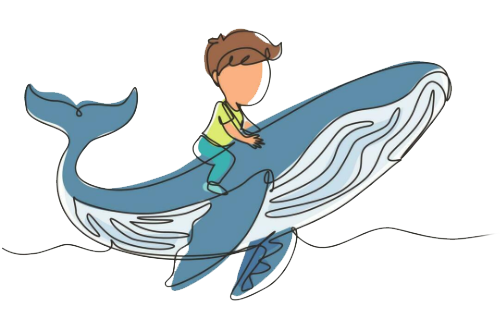
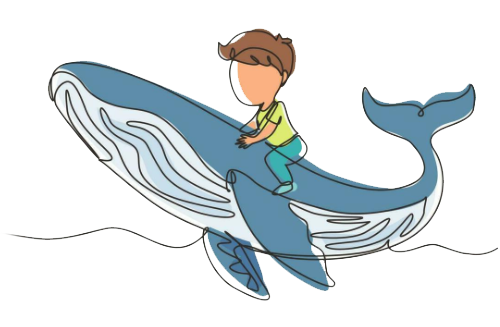
styled second reason in home-about-us

diff --git a/src/components/home/HomeAboutUs.js b/src/components/home/HomeAboutUs.js
@@ -1,6 +1,6 @@
 import styles from "./HomeAboutUs.module.css";
 import TeacherImg from "../../static/Screenshot 2023-05-31 151624.png";
-import WhaleImg from "../../static/Screenshot 2023-05-31 151624.png";
+import WhaleImg from "../../static/Screenshot 2023-05-31 162209.png";
 
 function HomeAboutUs() {
   return (
@@ -24,7 +24,7 @@ function HomeAboutUs() {
         </div>
       </div>
       <div className={styles.info}>
-        <div>
+        <div className={styles.reasonTwo}>
           <h2>Immerse in Fun and Interactive Learning</h2>
           <p>
             We believe in making English learning enjoyable and interactive for
@@ -33,8 +33,8 @@ function HomeAboutUs() {
             child will have a blast while developing language skills.
           </p>
         </div>
-        <div className={styles.image}>
-          <img src={TeacherImg} alt="teacher" />
+        <div className={styles.reasonTwoImg}>
+          <img src={WhaleImg} alt="whale" />
         </div>
       </div>
       <div className={styles.info}>

diff --git a/src/components/home/HomeAboutUs.module.css b/src/components/home/HomeAboutUs.module.css
@@ -40,6 +40,29 @@
   margin-bottom: 0px;
 }
 
+.reasonTwo {
+  display: flex;
+  flex-direction: column;
+  width: 100%;
+  padding-left: 40px;
+}
+
+.reasonTwo h2 {
+  font-family: "Futura PT bold", sans-serif;
+  font-size: 2.3rem;
+  font-style: normal;
+  width: 70%;
+  margin-bottom: 0px;
+}
+
+.reasonTwo p {
+  width: 90%;
+}
+
+.reasonTwoImg {
+  width: 400px;
+}
+
 .container p {
   font-family: "Futura PT light", sans-serif;
   font-size: 1.4rem;
